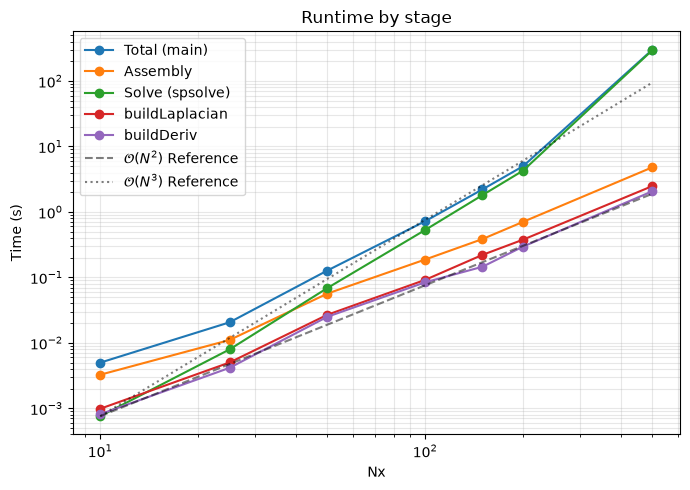
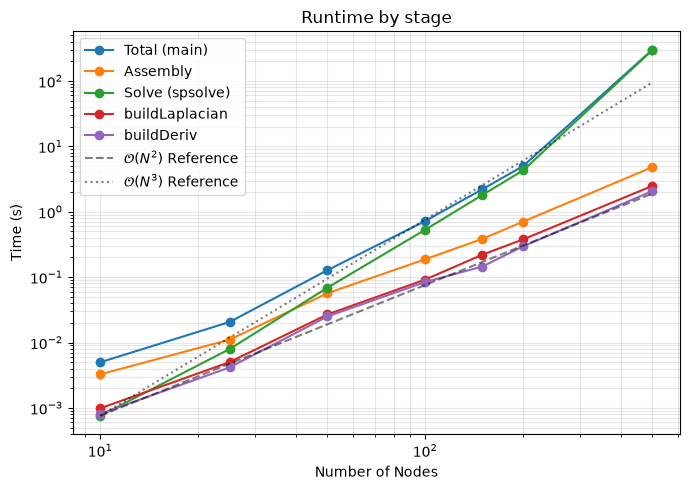
fixed a second typo

diff --git a/Scripts/profile_Processor.py b/Scripts/profile_Processor.py
@@ -44,7 +44,7 @@ ax.loglog(meshes, t0 * (meshes / meshes[0])**2, "k--", alpha=0.5,
 ax.loglog(meshes, t0 * (meshes / meshes[0])**3, "k:", alpha=0.5,
           label=r"$\mathcal{O}(N^3)$ Reference")
 
-ax.set_xlabel("Nx")
+ax.set_xlabel("Number of Nodes")
 ax.set_ylabel("Time (s)")
 ax.set_title("Runtime by stage")
 ax.legend()
